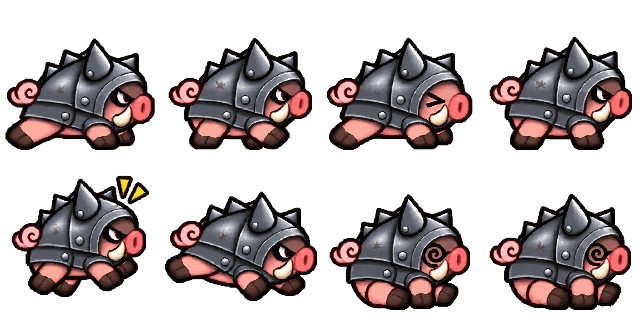
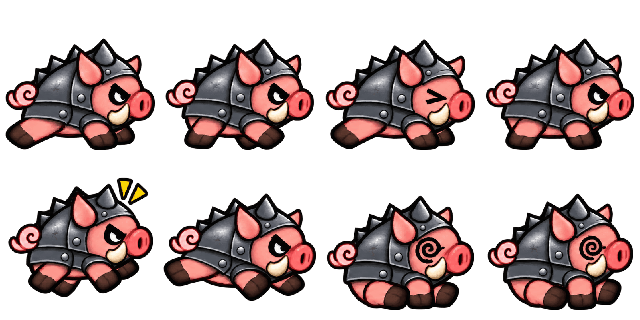
fix(marble): 앵그리 아이언 얼굴이 보이게 — 투구를 머리 위만 덮는 가시 모자로
- 투구가 얼굴까지 덮어 돼지가 아니라 "큰 쇳덩이"처럼 보였다 → 분홍 돼지 코·귀·찌푸린 눈·엄니가 크게 드러나게 다시 그림(세 시트 동일)
- 같은 이름 교체라 ASSET_VER v5
- ball-round.py --recenter: 칸 밖으로 잘리는 픽셀이 생기면 경고

Changed region(s): [[0.0, 0.5312, 1.0, 0.9688], [0.0, 0.125, 1.0, 0.4688]]

diff --git a/js/marble-render.js b/js/marble-render.js
@@ -127,7 +127,7 @@ var MarbleRender = (function () {
     // ─── 에셋 맵 (null = 2차 미도착 → 플레이스홀더) ───
     var A = '/assets/marble/';
     // 에셋 URL 버전 — 서버(routes/api.js)가 assets/marble/** 를 7일 캐시하므로, 같은 이름으로 파일을 교체하면 여기를 올려야 모두가 새 그림을 받는다(2026-09-22)
-    var ASSET_VER = '?v=4';   // v2(2026-09-26): N차 — trampoline 같은 이름 교체. v3(2026-09-29): 너구리 5시트 공 칸 원형화. v4(2026-09-30): 강철·레드 돼지 시트 교체
+    var ASSET_VER = '?v=5';   // v2(2026-09-26): N차 — trampoline 같은 이름 교체. v3(2026-09-29): 너구리 5시트 공 칸 원형화. v4(2026-09-30): 강철·레드 돼지 시트 교체. v5: 앵그리 아이언 얼굴 드러난 판으로 교체
     function withVer(src) { return src.indexOf(A) === 0 ? src + ASSET_VER : src; }   // ui 아틀라스(UI_ICON_ATLAS_URL, 자체 ?v=)는 제외
     var ASSETS = {
         creatures: { hedgehog: A + 'creatures/hedgehog.webp', armadillo: A + 'creatures/armadillo.webp', pillbug: A + 'creatures/pillbug.webp', turtle: A + 'creatures/turtle.webp', panda: A + 'creatures/panda.webp', hamster: A + 'creatures/hamster.webp', pufferfish: A + 'creatures/pufferfish.webp', raccoon: A + 'creatures/raccoon.webp', rabbit: A + 'creatures/rabbit.webp', ribbonpig: A + 'creatures/ribbonpig.webp' },   // 7차 3종은 도착 전 — 없으면 선택 버튼 숨김(js/marble.js). 스킨 시트('{creature}-{skin}')는 ensureSkin 이 처음 필요할 때 로드

diff --git a/AutoTest/spritemake/ball-round.py b/AutoTest/spritemake/ball-round.py
@@ -135,7 +135,10 @@ def recenter(cell):
     d = 2 * rad; s = BALL_D / d
     big = cell.convert('RGBa').resize((round(160 * s), round(160 * s)), Image.LANCZOS).convert('RGBA')
     out = Image.new('RGBA', (160, 160), (0, 0, 0, 0))
-    out.paste(big, (round(80 - cx * s), round(80 - cy * s)))   # 빈 칸에 그대로(마스크로 붙이면 알파가 제곱된다), 칸 밖은 잘림
+    ox, oy = round(80 - cx * s), round(80 - cy * s)
+    out.paste(big, (ox, oy))   # 빈 칸에 그대로(마스크로 붙이면 알파가 제곱된다), 칸 밖은 잘림
+    ba = big.getchannel('A').load(); lost = sum(1 for y in range(big.height) for x in range(big.width) if ba[x, y] >= 8 and not (0 <= x + ox < 160 and 0 <= y + oy < 160))
+    if lost: print(f'  WARNING: recenter clipped {lost} opaque px outside the cell (꼬리·소품 잘림) — 이 칸은 --recenter 대신 기본 fix 를 쓸 것')
     opx = out.load()
     for y in range(160):
         for x in range(160):

diff --git a/docs/spritemake-request/applied/2026-09-30-marble-skin-pig-3.md b/docs/spritemake-request/applied/2026-09-30-marble-skin-pig-3.md
@@ -22,3 +22,4 @@
   3. **황금 돼지(epic 100) 추가**: 광택 금 + 흰 반짝이 + 빨간 복매듭·엽전, 새 브리프로 시트 1회씩·옷 일관. 배치 QA PASS.
   - 같은 이름 교체(강철·레드) → 옛 webp·manifest 섹션 제거 후 재인수, ASSET_VER v4.
 - 2026-09-30 **앵그리 아이언(ribbonpig-angry, legend 150)** 추가: 사용자 "강철 돼지가 너무 귀엽다" → 강철 돼지는 그대로 두고 사나운 버전을 별도 스킨으로(사용자 선택, 이름 "앙그리아이안"은 "앵그리 아이언"으로 표기). 강철 돼지 시트를 `--ref` 로 넣어 찌푸린 눈·볼터치 제거·멧돼지 엄니·긁힌 어두운 쇳빛·더 날카로운 뿔. 생성 배치 `marble-run-skin-ribbonpig-iron-2026-09-30-fierce` → `marble-run-skin-ribbonpig-angry-2026-09-30` 로 옮겨 리팩. 공 ball-round fix(반지름 45→46). 배치 QA·verify·round 전부 PASS.
+- 2026-09-30 **앵그리 아이언 얼굴 드러난 판으로 교체**: 사용자 "강철 때문에 돼지가 아니라 그냥 큰 무언가 같다, 얼굴 더 잘 나오게" → 투구를 머리 위·뒤만 덮는 가시 모자로 줄이고 분홍 돼지 코·귀(투구 구멍으로)·찌푸린 눈·엄니를 크게. 배치 `marble-run-skin-ribbonpig-angry-2026-09-30-face`(--ref=첫 판), 시트 1회씩·세 시트 투구 동일. 공 ball-round fix(최소 반지름 45 — 귀·가시 사이 오목, 링 안은 참). ASSET_VER v5.
